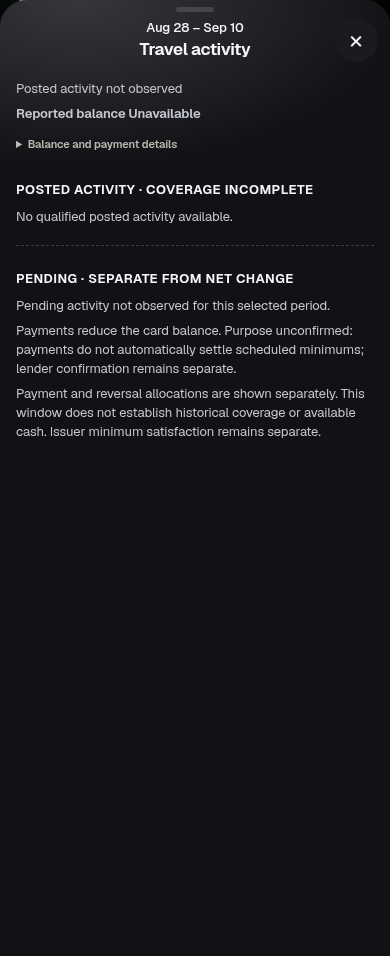
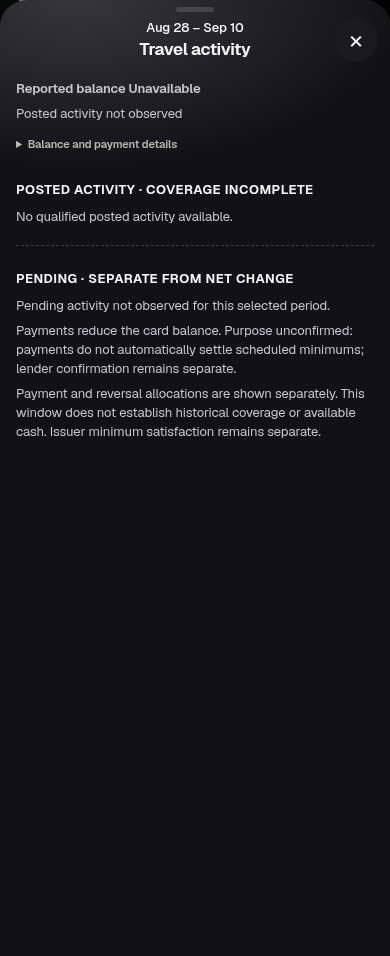
Card panel: blend skin places the re-homed posted status after the balance lead
Bounded repair of Codex advisory P2 4252570044, scope extended by Atlas (coordination thread 1791643477.608959) to paintCards() in public/budget-blend.js only: when the Travel panel carries the reported-balance lead, the re-homed 'Posted through …' / 'Posted activity not observed' status is inserted immediately after the lead; without a lead the incumbent prepend is retained exactly. Status text, classes and the collapsed disclosure are unchanged; no other production file changes.

Proof: test/browser-card-panel-lead.js gains real App.boot Travel ordering checks (current Posted-through and future unobserved states, window-step rerenders both ways, keyboard open and close/reopen, status exactly once, balance first). Failing-before on head c8f4275c (lead second in both states; harness aborts at 'light current: Travel panel leads with the reported balance'); passing-after on this tree: full harness PASS (10 state groups, 5 captures), proof packet regenerated and bound to this tree. Incumbents re-run PASS: test-card-panel-lead (45), test-card-period-movements (569), sheet controller, card-payment diagnostics (78), diagnostic dependencies (31), browser-card-period-movements, test-budget-surface, bills-period-end-legacy-comparison.

Changed region(s): [[0.0308, 0.091, 0.5231, 0.1213]]

diff --git a/test/browser-card-panel-lead.js b/test/browser-card-panel-lead.js
@@ -13,7 +13,13 @@
 //      "Balance and payment details" disclosure, close the sheet;
 //  (d) close/reopen behaviour — focus returns to the card trigger on
 //      close, and the disclosure is collapsed again on reopen even
-//      though the sheet re-homes the same panel node.
+//      though the sheet re-homes the same panel node;
+//  (e) Travel-panel ordering under the blend skin — the strip's
+//      re-homed posted-status paragraph follows the balance lead,
+//      never precedes it, in the current "Posted through …" state and
+//      the future "Posted activity not observed" state, across
+//      rerenders (window steps) and close/reopen, present exactly
+//      once (advisory P2 4252570044).
 // Invented data; all network intercepted. No credentials, live accounts,
 // writes or DOM financial stubs.
 const assert = require('node:assert/strict');
@@ -73,6 +79,32 @@ const states = [], errors = [], writes = [], external = [];
   };
   const leadText = panel => panel.locator('.card-movement-lead').innerText();
   const detailsOpen = panel => panel.locator('details.card-movement-details').evaluate(el => el.open);
+  // Travel ordering (advisory P2 4252570044): the blend skin's
+  // paintCards() re-homes the strip's posted-status paragraph into
+  // panels[0] — the Travel panel. The reported-balance lead must stay
+  // the panel's first content, the status must sit immediately after
+  // it, and the status must appear exactly once.
+  const travelOrder = panel => panel.evaluate(el => {
+    const lead = el.querySelector('.card-movement-lead');
+    const notes = [...el.querySelectorAll('.blend-card-posted')];
+    return {
+      firstIsLead: !!lead && el.firstElementChild === lead,
+      noteCount: notes.length,
+      noteText: notes.length === 1 ? notes[0].textContent.trim() : null,
+      noteAfterLead: !!lead && notes.length === 1 && lead.nextElementSibling === notes[0],
+    };
+  });
+  const assertTravelOrder = async (panel, notePattern, where) => {
+    const order = await travelOrder(panel);
+    assert.equal(order.firstIsLead, true,
+      `${where}: Travel panel leads with the reported balance, ahead of the re-homed status`);
+    assert.equal(order.noteCount, 1,
+      `${where}: Travel panel carries the posted status exactly once`);
+    assert.match(order.noteText || '', notePattern,
+      `${where}: Travel posted status text is preserved`);
+    assert.equal(order.noteAfterLead, true,
+      `${where}: Travel posted status sits immediately after the balance lead`);
+  };
   try {
     // (a)+(b) lead truth at 390px in both themes, plus canonical captures.
     for (const theme of ['light', 'dark']) {
@@ -98,6 +130,12 @@ const states = [], errors = [], writes = [], external = [];
       const page = await boot(fx.served(), 390, theme);
       const strip = page.locator('[data-budget-card-movements]');
       await strip.waitFor();
+      // Travel ordering in the current period, before the window step:
+      // the re-homed "Posted through …" status follows the balance lead.
+      await page.locator('[data-budget-card-toggle="travelvisa"]').click();
+      await assertTravelOrder(page.locator('[data-budget-card-panel="travelvisa"]'),
+        /^Posted through /, `${theme} current`);
+      await page.keyboard.press('Escape');
       await page.evaluate(() => document.querySelector('[data-budget-window-step="1"]').click());
       await page.waitForFunction(s => document.querySelector('[data-budget-card-movements]')
         ?.getAttribute('data-card-period-start') === s, '2026-08-28', { timeout: 8000 });
@@ -107,11 +145,24 @@ const states = [], errors = [], writes = [], external = [];
         `${theme}: missing balance leads with the unavailable state`);
       assert.doesNotMatch(await leadText(panel), /\$0\.00/,
         `${theme}: missing balance is never printed as an invented zero`);
+      // Travel ordering in the future period, after the step's rerender:
+      // the "Posted activity not observed" status follows the lead too.
+      await assertTravelOrder(panel, /^Posted activity not observed$/, `${theme} future`);
       if (theme === 'dark') await capture(page.locator('[data-budget-detail-sheet]'),
         'panel-lead-unavailable-390-dark.png', { state: 'missing-balance', width: 390, theme, subject: 'sheet open, unavailable lead' });
       await page.keyboard.press('Escape');
+      // Stepping back is another rerender: the current-period ordering
+      // and the "Posted through …" status return, still exactly once.
+      await page.evaluate(() => document.querySelector('[data-budget-window-step="-1"]').click());
+      await page.waitForFunction(s => document.querySelector('[data-budget-card-movements]')
+        ?.getAttribute('data-card-period-start') === s, '2026-08-14', { timeout: 8000 });
+      await page.locator('[data-budget-card-toggle="travelvisa"]').click();
+      await assertTravelOrder(page.locator('[data-budget-card-panel="travelvisa"]'),
+        /^Posted through /, `${theme} current-after-step-back`);
+      await page.keyboard.press('Escape');
       await page.close();
       states.push({ proof: 'lead-truth', width: 390, theme });
+      states.push({ proof: 'travel-order', width: 390, theme, states: ['current', 'future', 'current-after-step-back'] });
     }
     // (c)+(d) keyboard and touch operation across widths and themes.
     for (const width of [320, 390, 1440]) for (const theme of ['light', 'dark']) {
@@ -128,6 +179,7 @@ const states = [], errors = [], writes = [], external = [];
       assert.equal(await sheet.evaluate(el => el.open), true, `${width}/${theme} keyboard: Enter opens the sheet`);
       assert.equal(await leadText(panel), 'Reported balance $927.40 · Aug 20',
         `${width}/${theme} keyboard: panel leads with the published balance and its date`);
+      await assertTravelOrder(panel, /^Posted through /, `${width}/${theme} keyboard`);
       assert.equal(await detailsOpen(panel), false, `${width}/${theme} keyboard: disclosure collapsed on open`);
       assert.equal(await panel.locator('details.card-movement-details > summary').innerText(),
         'Balance and payment details', `${width}/${theme} keyboard: summary label exact`);
@@ -158,6 +210,7 @@ const states = [], errors = [], writes = [], external = [];
       await trigger.click();
       assert.equal(await detailsOpen(panel), false,
         `${width}/${theme} reopen: disclosure is collapsed on reopen`);
+      await assertTravelOrder(panel, /^Posted through /, `${width}/${theme} reopen`);
       assert.equal(await page.evaluate(() => document.querySelector('[data-budget-detail-sheet]')?.contains(document.activeElement)), true,
         `${width}/${theme} reopen: focus lands inside the sheet`);
       if (width === 390 && theme === 'light') await capture(sheet,

diff --git a/public/budget-blend.js b/public/budget-blend.js
@@ -1899,7 +1899,14 @@
     const note = heading.querySelector('p');
     if (note && /Opening balance unavailable|Future period not observed|activity not observed|Posted through/i.test(text(note))) {
       note.classList.add('blend-card-posted', 'blend-card-aside');
-      if (panels[0]) panels[0].prepend(note);
+      if (panels[0]) {
+        // The panel leads with its reported balance (the card-detail
+        // lead); the re-homed strip status follows that lead when the
+        // panel carries one, and keeps the incumbent prepend when it
+        // does not. Status text and classes are unchanged either way.
+        const lead = panels[0].querySelector('.card-movement-lead');
+        if (lead) lead.after(note); else panels[0].prepend(note);
+      }
     }
     bento.querySelectorAll('.card-movement-trigger').forEach(button => {
       if (!button.querySelector('.blend-cc-chip')) {
